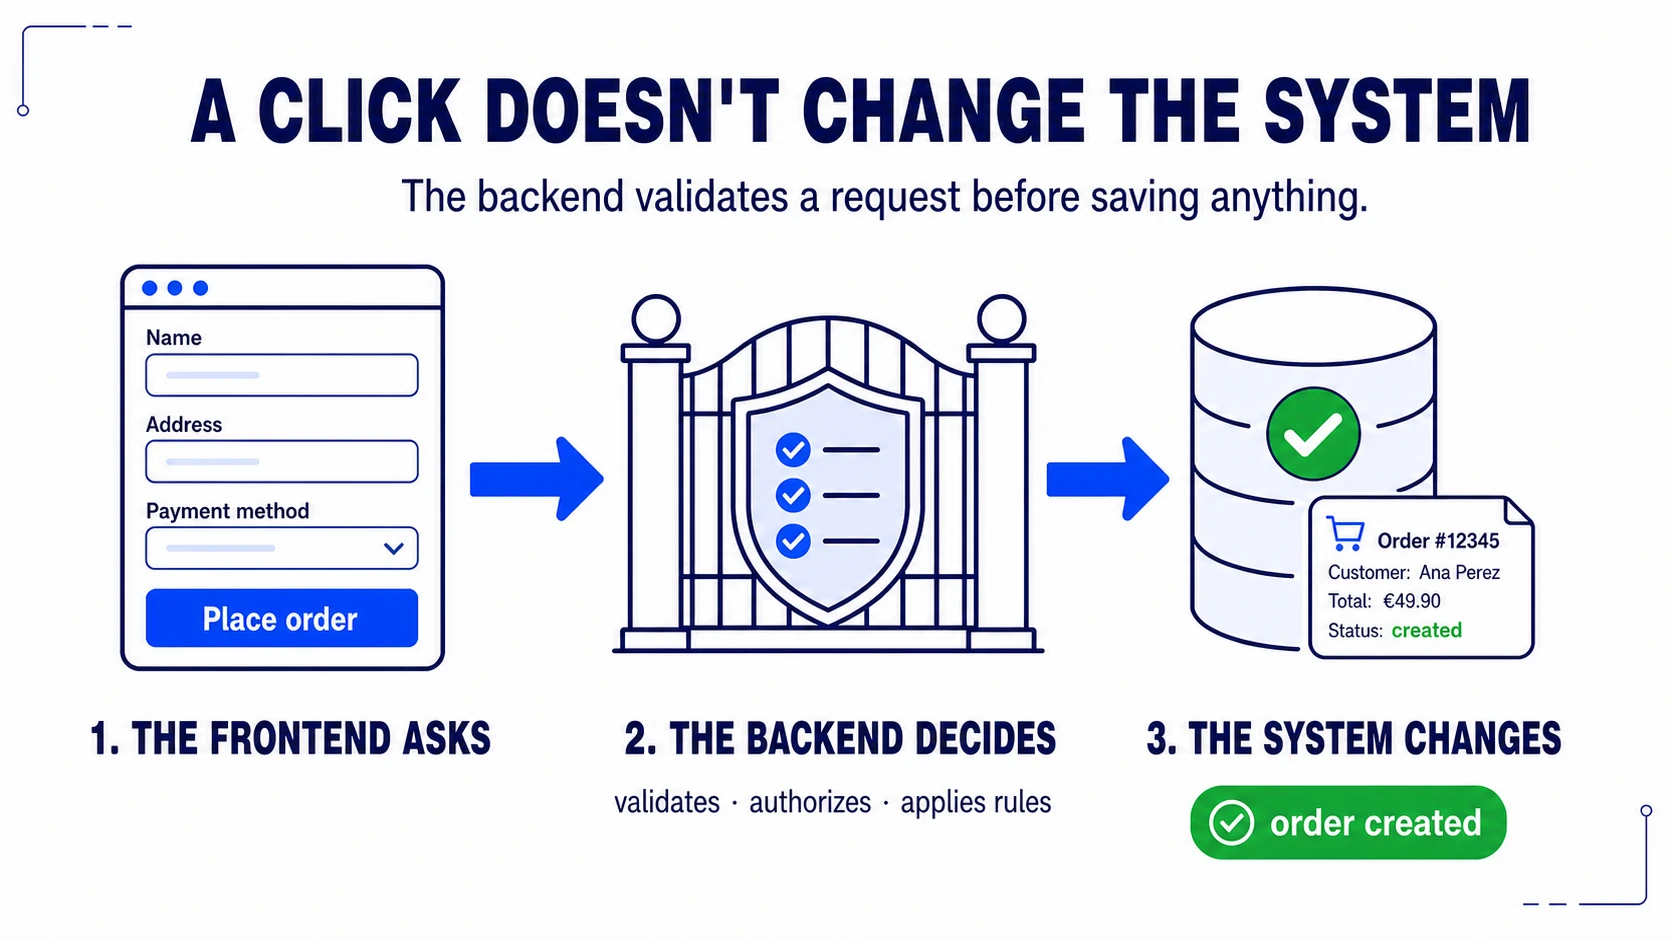
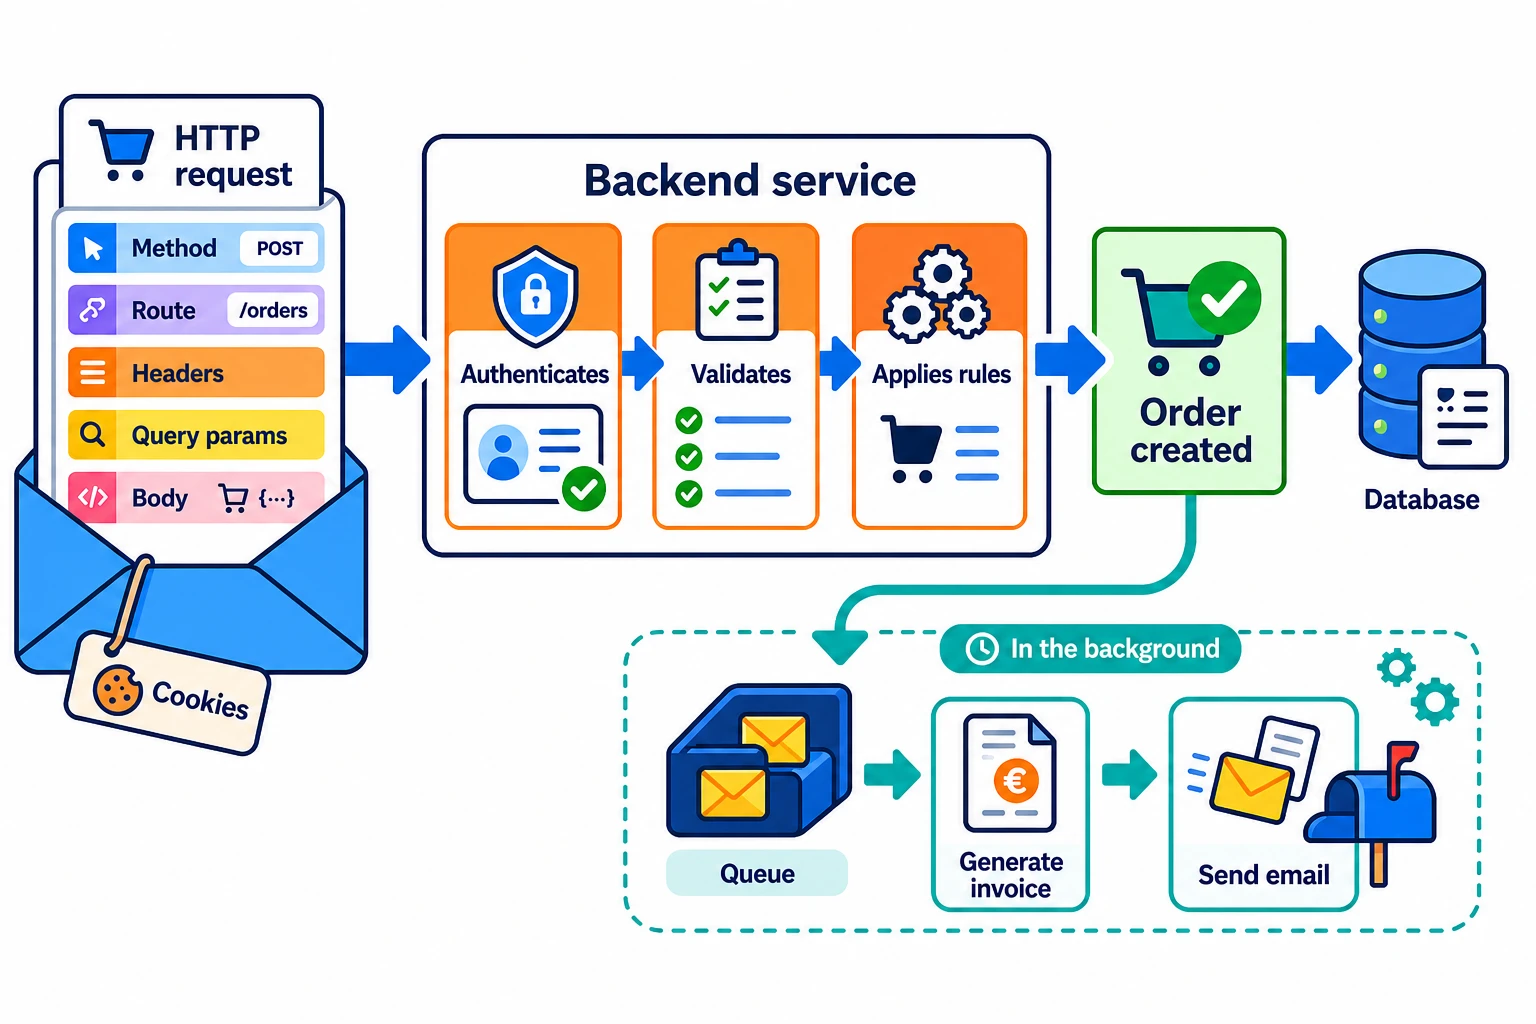
content(pills): clarify backend responsibilities

diff --git a/src/content/pills/es/fundamentos/backend.md b/src/content/pills/es/fundamentos/backend.md
@@ -1,62 +1,85 @@
 ---
 kind: 'pill'
 title: 'Backend'
-subtitle: 'las reglas del sistema'
+subtitle: 'el servicio que hace el trabajo'
 icon: 'server'
 order: 5
 bonus: false
 publicationDate: 2026-08-21
 ---
 
-El backend es **la parte de una aplicación que recibe peticiones, aplica las
-reglas del sistema y guarda los cambios**. Normalmente se ejecuta en uno o varios
-servidores y no lo ves directamente, pero casi todo lo que haces termina pasando
-por él.
+Un backend es **un servicio que recibe mensajes, ejecuta trabajo y devuelve un
+resultado**. Suele ejecutarse en uno o varios servidores, pero no es el servidor
+en sí: el servidor es la máquina o proceso que puede recibir tráfico; el backend
+es el código que decide qué hacer con ese tráfico.
 
-## Del botón al cambio real
+Lo más habitual es que reciba peticiones HTTP. Una web, una app móvil o una
+integración envían un mensaje y el servicio responde. También puede recibir
+mensajes de una cola o arrancar por un horario, pero la idea es la misma: llega
+una señal y el backend aplica las reglas del sistema.
 
-Cuando confirmas un pedido, el frontend recoge los productos y la dirección y
-envía una petición. El backend es quien comprueba que los datos son válidos, que
-queda stock, que el precio sigue siendo correcto y que esa persona puede hacer
-la compra.
+## Qué llega en una petición HTTP
 
-Si todo cuadra, descuenta el stock, guarda el pedido y devuelve el resultado. Si
-algo falla, responde con un error que el frontend pueda explicar.
+Imagina que una persona confirma un pedido. El frontend puede enviar algo como
+esto:
 
-![Un formulario pide crear un pedido; el backend valida la petición, autoriza la operación y aplica las reglas antes de guardar el cambio](../../images/fundamentos/backend/request-flow-es.webp)
+```http
+POST /orders?coupon=SUMMER
+Authorization: Bearer <token>
+Cookie: session=...
+Content-Type: application/json
 
-La distinción importa porque puede haber más de una forma de usar el mismo
-sistema: una web, una app móvil o una integración externa. Si cada cliente
-decidiera por su cuenta cuándo se puede comprar, acabarías con tres versiones de
-las mismas reglas. El backend las deja en un único sitio.
+{ "products": ["keyboard"], "address": "..." }
+```
 
-## No siempre hay alguien esperando
+La petición tiene una **ruta** (`/orders`) y un **método** (`POST`) que expresan
+la operación. Los *headers* llevan metadatos, como el formato del contenido o
+la identidad. Los *query params* (`coupon=SUMMER`) afinan la petición. El
+*body* lleva los datos que queremos crear o modificar. Las cookies también
+viajan en los headers; el navegador las adjunta, por ejemplo, para identificar
+una sesión.
 
-Un backend también trabaja sin que nadie pulse un botón. Puede ejecutar una
-tarea programada cada noche, procesar algo pesado en segundo plano o reaccionar
-a un evento que publicó otro sistema.
+![Una petición HTTP entra en un servicio backend, que autentica, valida y aplica las reglas para crear un pedido; después encarga por una cola la factura y su envío por correo](../../images/fundamentos/backend/request-flow-es.webp)
 
-Cuando se crea un pedido, por ejemplo, puede publicar un evento para preparar la
-factura. Un *webhook* recorre el camino contrario: el backend llama a otro
-servicio para avisarle de que algo ha ocurrido. En ambos casos sigue haciendo lo
-mismo: recibir una señal y aplicar una regla.
+## Del mensaje a la operación
 
-## La seguridad se decide aquí
+El backend no ejecuta una petición tal cual llega. Primero decide qué código
+atiende esa ruta. Después puede autenticar a la persona, comprobar que tiene
+permiso para comprar, validar que los campos tienen sentido y aplicar las reglas
+del negocio: que haya stock, que el precio sea el actual o que el cupón siga
+siendo válido.
 
-El frontend puede ocultar un botón o impedir que abras una ruta, pero cualquiera
-puede saltárselo y llamar a la API directamente. Por eso el backend comprueba
-quién hace la petición y qué permisos tiene antes de cambiar nada.
+Solo entonces cambia datos: descuenta unidades y guarda el pedido. Al final
+devuelve una respuesta HTTP. Puede ser un `201 Created` con el pedido, un `400`
+si faltan datos, un `401` si no hay una identidad válida o un `409` si ya no
+queda stock. El frontend usa esa respuesta para actualizar la pantalla, pero no
+decide si la operación era válida.
 
-La identidad puede llegar en un token o en una sesión mediante cookie. El
-mecanismo cambia; la responsabilidad no: **el backend no confía en que el
-frontend haya hecho las comprobaciones por él**.
+Esta centralización permite que la web, la app móvil y una integración externa
+usen las mismas reglas sin copiarlas en cada cliente.
 
-## Lo que significa *stateless*
+## CRUD es una parte del trabajo
 
-Muchos backends son *stateless*: cada petición trae lo necesario para
-procesarla, como la identidad y los datos de la operación. Así la siguiente
-petición puede atenderla otra instancia sin recordar qué ocurrió en la anterior.
+Muchas APIs exponen operaciones CRUD: crear, leer, actualizar y borrar datos.
+En una tienda, `POST /orders` crea un pedido, `GET /orders/42` lo consulta,
+`PATCH /orders/42` modifica un dato permitido y `DELETE /cart/items/7` quita un
+producto del carrito.
 
-⚠ *Stateless* no significa que la aplicación no guarde datos. El pedido sigue
-en la base de datos. Lo que no necesita conservarse es la conversación en la
-memoria de un servidor concreto.
+CRUD describe el cambio de datos, no sustituye las reglas. Crear un pedido no
+es solo insertar una fila: hay que comprobar identidad, stock, precios y qué
+efectos debe producir la compra.
+
+## También puede seguir trabajando después
+
+No todo tiene que terminar antes de responder. Tras crear el pedido, el backend
+puede guardar un trabajo en una **cola** y responder enseguida. Otro proceso
+consume ese trabajo más tarde: genera la factura y envía el correo.
+
+Así la persona no espera a que se renderice un PDF o a que responda el proveedor
+de correo. Además, si el envío falla, el trabajador puede reintentarlo sin
+repetir la compra. Las tareas programadas y los mensajes de otros servicios se
+procesan de una forma parecida.
+
+⚠ Ocultar un botón en el frontend mejora la experiencia, pero no protege la
+operación. Cualquiera puede construir una petición HTTP por su cuenta; por eso
+la autenticación, los permisos y las reglas importantes viven en el backend.

diff --git a/src/content/pills/en/fundamentos/backend.md b/src/content/pills/en/fundamentos/backend.md
@@ -1,61 +1,82 @@
 ---
 kind: 'pill'
 title: 'Backend'
-subtitle: 'the system rules'
+subtitle: 'the service that does the work'
 icon: 'server'
 order: 5
 bonus: false
 publicationDate: 2026-08-21
 ---
 
-The backend is **the part of an application that receives requests, applies the
-system's rules, and saves changes**. It usually runs on one or more servers and
-you do not see it directly, but almost everything you do eventually passes
-through it.
+A backend is **a service that receives messages, performs work, and returns a
+result**. It usually runs on one or more servers, but it is not the server
+itself: the server is the machine or process that can receive traffic; the
+backend is the code that decides what to do with that traffic.
 
-## From a button to a real change
+Most often it receives HTTP requests. A website, mobile app, or integration
+sends a message and the service responds. It can also receive queue messages or
+start on a schedule, but the idea is the same: a signal arrives and the backend
+applies the system's rules.
 
-When you confirm an order, the frontend collects the products and address and
-sends a request. The backend checks that the data is valid, stock is available,
-the price is still correct, and that person is allowed to make the purchase.
+## What arrives in an HTTP request
 
-If everything adds up, it reduces the stock, saves the order, and returns the
-result. If something fails, it returns an error the frontend can explain.
+Imagine someone confirms an order. The frontend might send something like this:
 
-![A form asks to create an order; the backend validates the request, authorises the operation, and applies the rules before saving the change](../../images/fundamentos/backend/request-flow-en.webp)
+```http
+POST /orders?coupon=SUMMER
+Authorization: Bearer <token>
+Cookie: session=...
+Content-Type: application/json
 
-That distinction matters because the same system may have several clients: a
-website, a mobile app, or an external integration. If each one decided when a
-purchase was allowed, you would end up with three versions of the same rules.
-The backend keeps them in one place.
+{ "products": ["keyboard"], "address": "..." }
+```
 
-## Nobody has to be waiting
+The request has a **path** (`/orders`) and a **method** (`POST`) that express
+the operation. Headers carry metadata, such as the content format or identity.
+Query parameters (`coupon=SUMMER`) refine the request. The body carries the
+data to create or modify. Cookies also travel in headers; a browser attaches
+them, for example, to identify a session.
 
-A backend also works without someone pressing a button. It can run a scheduled
-task every night, process heavy work in the background, or react to an event
-published by another system.
+![An HTTP request enters a backend service, which authenticates, validates, and applies rules to create an order; it then sends invoice generation and email delivery to a queue](../../images/fundamentos/backend/request-flow-en.webp)
 
-When an order is created, for example, it may publish an event to prepare the
-invoice. A *webhook* travels in the other direction: the backend calls another
-service to tell it something has happened. In both cases it is still doing the
-same thing: receiving a signal and applying a rule.
+## From message to operation
 
-## Security is decided here
+A backend does not run a request exactly as it arrives. First it decides which
+code handles that path. It can then authenticate the person, check that they
+are allowed to buy, validate that the fields make sense, and apply business
+rules: stock must exist, the price must be current, and the coupon must still
+be valid.
 
-The frontend can hide a button or prevent you from opening a route, but anyone
-can bypass it and call the API directly. The backend therefore checks who made
-the request and which permissions they have before changing anything.
+Only then does it change data: it reduces stock and saves the order. Finally it
+returns an HTTP response. That may be `201 Created` with the order, `400` for
+missing data, `401` when no valid identity is provided, or `409` when stock has
+run out. The frontend uses that response to update the screen, but it does not
+decide whether the operation was valid.
 
-Identity may arrive in a token or a cookie-based session. The mechanism changes;
-the responsibility does not: **the backend does not trust the frontend to have
-done those checks for it**.
+This centralisation lets the website, mobile app, and an external integration
+use the same rules without copying them into every client.
 
-## What *stateless* means
+## CRUD is only part of the work
 
-Many backends are *stateless*: each request carries what is needed to process
-it, such as the identity and operation data. Another instance can therefore
-handle the next request without remembering what happened in the previous one.
+Many APIs expose CRUD operations: create, read, update, and delete data. In a
+shop, `POST /orders` creates an order, `GET /orders/42` reads it, `PATCH
+/orders/42` changes an allowed value, and `DELETE /cart/items/7` removes a
+product from the cart.
 
-⚠ *Stateless* does not mean the application stores no data. The order remains
-in the database. What does not need to be kept is the conversation in one
-particular server's memory.
+CRUD describes the data change; it does not replace the rules. Creating an
+order is not simply inserting a row: identity, stock, prices, and the effects
+of the purchase still have to be checked.
+
+## It can keep working after the response
+
+Not everything needs to finish before the backend responds. After creating an
+order, it can put a job in a **queue** and respond straight away. Another
+process consumes that job later: it generates the invoice and sends the email.
+
+The person does not wait for a PDF to render or an email provider to respond.
+If sending fails, the worker can retry it without repeating the purchase.
+Scheduled tasks and messages from other services are handled in a similar way.
+
+⚠ Hiding a button in the frontend improves the experience, but it does not
+protect the operation. Anyone can build an HTTP request themselves, which is
+why authentication, permissions, and important rules belong in the backend.
